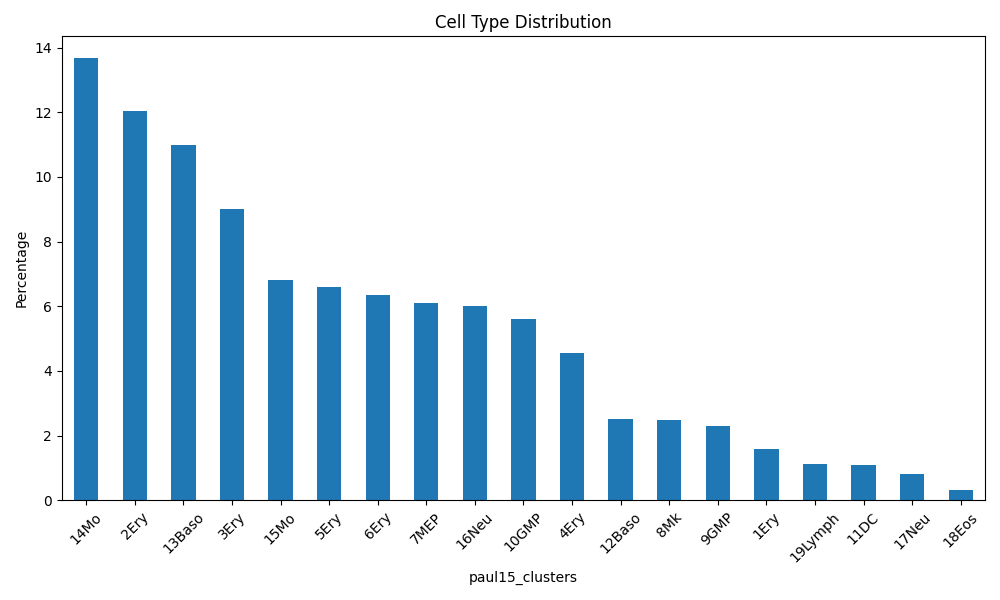
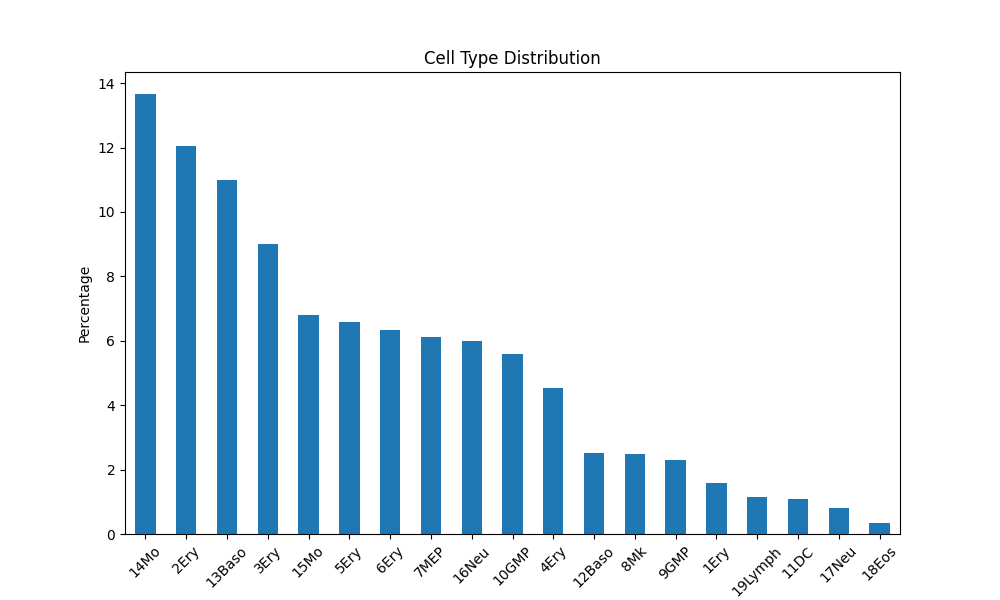
PAGA Graphs

Changed region(s): [[0.0, 0.09, 0.992, 0.99], [0.434, 0.03, 0.62, 0.12], [0.031, 0.06, 0.062, 0.09]]

diff --git a/testing/analysis.py b/testing/analysis.py
@@ -54,7 +54,6 @@ def save_visualizations(adata, stats):
     plt.title('Cell Type Distribution')
     plt.xticks(rotation=45)
     plt.ylabel('Percentage')
-    plt.tight_layout()
     plt.savefig('analysis_results/cell_type_distribution.png')
     plt.close()
     
@@ -62,7 +61,6 @@ def save_visualizations(adata, stats):
     plt.figure(figsize=(10, 8))
     sc.pl.umap(adata, color='paul15_clusters', show=False)
     plt.title('UMAP by Cell Type')
-    plt.tight_layout()
     plt.savefig('analysis_results/umap_cell_types.png')
     plt.close()
     
@@ -71,7 +69,6 @@ def save_visualizations(adata, stats):
     sns.boxplot(data=adata.obs, x='paul15_clusters', y='dpt_pseudotime')
     plt.xticks(rotation=45)
     plt.title('Pseudotime Distribution by Cell Type')
-    plt.tight_layout()
     plt.savefig('analysis_results/pseudotime_distribution.png')
     plt.close()
     
@@ -80,7 +77,6 @@ def save_visualizations(adata, stats):
     key_genes = ['Mpo', 'Elane', 'Prtn3']
     sc.pl.violin(adata, key_genes, groupby='paul15_clusters', show=False)
     plt.title('Key Gene Expression by Cell Type')
-    plt.tight_layout()
     plt.savefig('analysis_results/gene_expression_patterns.png')
     plt.close()
     
@@ -88,8 +84,22 @@ def save_visualizations(adata, stats):
     plt.figure(figsize=(10, 6))
     sns.kdeplot(data=adata.obs, x='dpt_pseudotime', hue='paul15_clusters')
     plt.title('Trajectory Density by Cell Type')
-    plt.tight_layout()
     plt.savefig('analysis_results/trajectory_density.png')
+    plt.close()
+
+    #6. PAGA Graph
+    plt.figure(figsize=(10, 8))
+    sc.tl.paga(adata, groups='paul15_clusters')
+    sc.pl.paga(adata, color='paul15_clusters', node_size_scale=2, show=False)
+    plt.title('PAGA Graph')
+    plt.savefig('analysis_results/paga_graph.png')
+    plt.close()
+
+    #7. PAGA Graph with pseudotime
+    plt.figure(figsize=(10, 8))
+    sc.pl.paga(adata, color='dpt_pseudotime', node_size_scale=2, show=False)
+    plt.title('PAGA Graph with Pseudotime')
+    plt.savefig('analysis_results/paga_graph_pseudotime.png')
     plt.close()
 
 def calculate_fairness_metrics(adata):
@@ -164,6 +174,8 @@ def main():
     print("- pseudotime_distribution.png")
     print("- gene_expression_patterns.png")
     print("- trajectory_density.png")
+    print("- paga_graph.png")
+    print("- paga_graph_pseudotime.png")
 
 if __name__ == "__main__":
     main()
